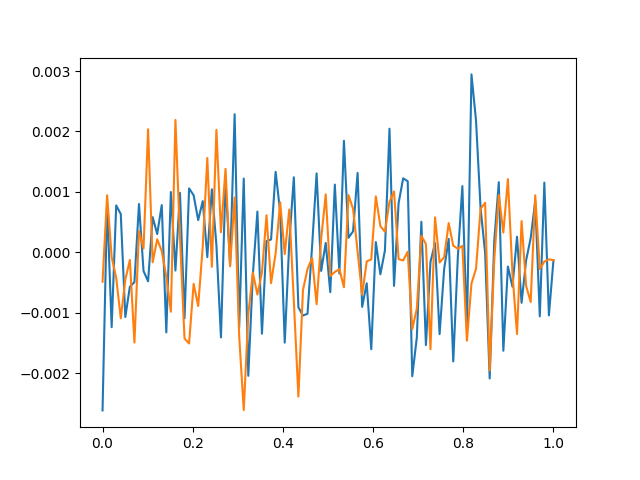
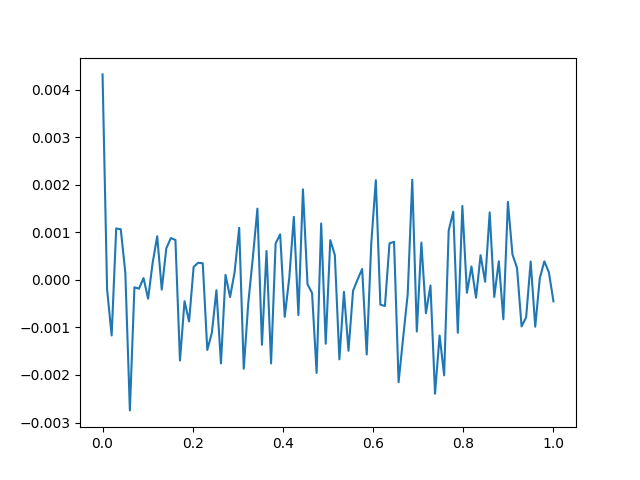
-updated gaussian plots

diff --git a/exercises_03/gaussian_processes.py b/exercises_03/gaussian_processes.py
@@ -16,16 +16,23 @@ mean = np.zeros(len(x))
 C = matern(x,10**-6,10**-6, 10**-6)
 plt.plot(x,np.random.multivariate_normal(mean,C))
 plt.savefig('base_case')
+plt.close()
 
 C = matern(x,10**-3,10**-6, 10**-6)
 plt.plot(x,np.random.multivariate_normal(mean,C))
 plt.savefig('increased_b')
+plt.close()
+
 
 C = matern(x,10**-6,10**-3, 10**-6)
 plt.plot(x,np.random.multivariate_normal(mean,C))
 plt.savefig('increased_tau1')
+plt.close()
+
 
 C = matern(x,10**-6,10**-6, 10**-3)
 plt.plot(x,np.random.multivariate_normal(mean,C))
 plt.savefig('increased_tau2')
+plt.close()
+
 
